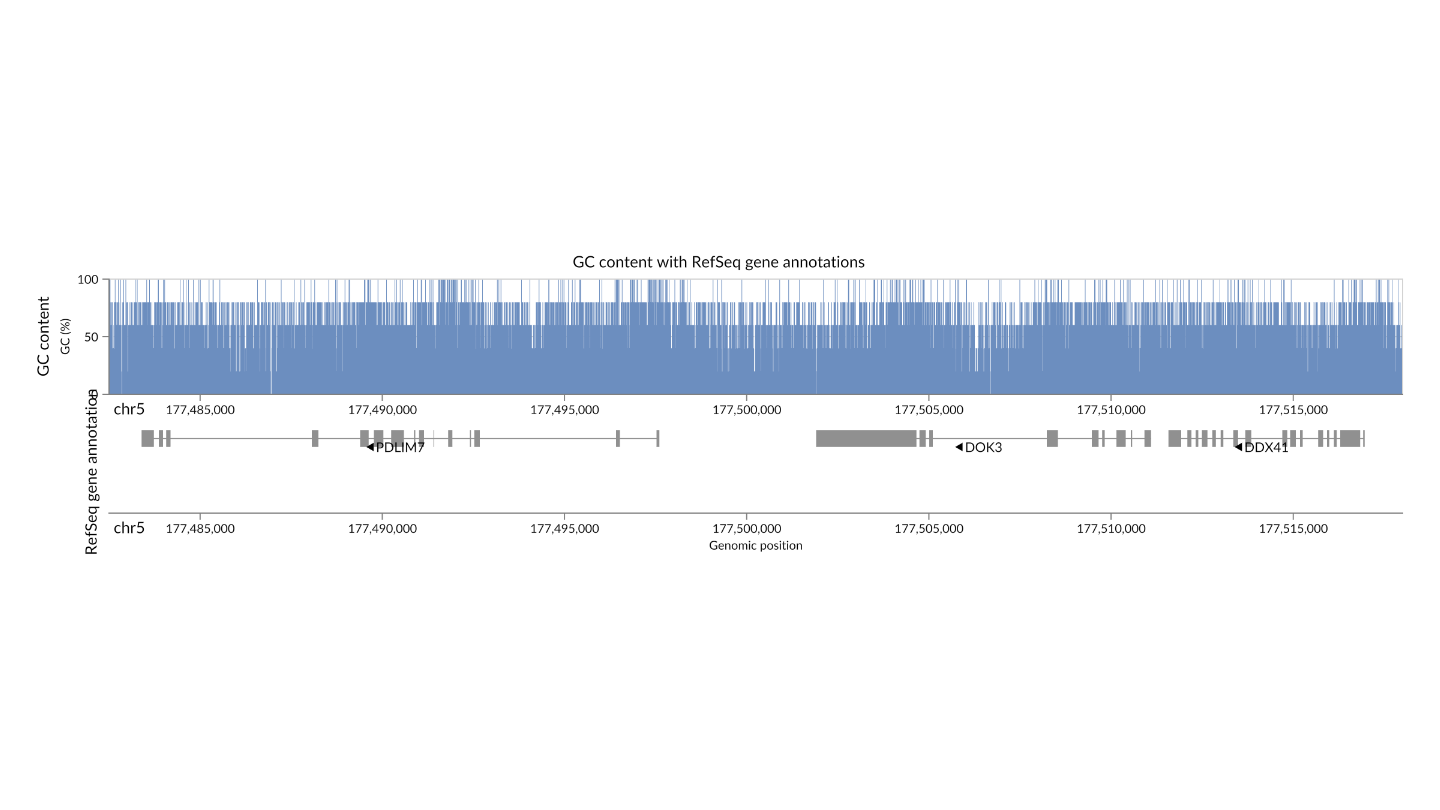
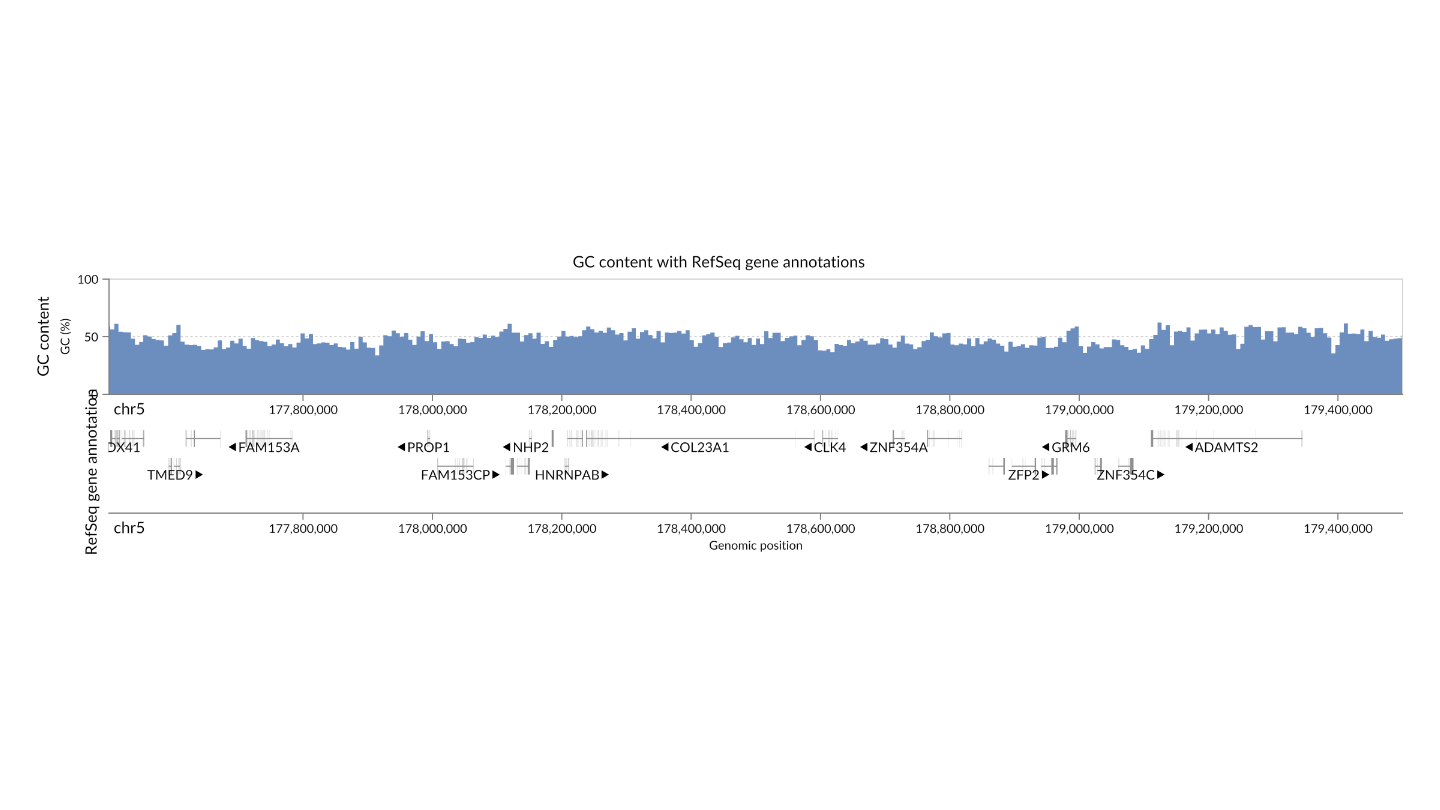
fix(gallery): refine genome track layouts

diff --git a/docs/examples/stacked_genome_browser.py b/docs/examples/stacked_genome_browser.py
@@ -81,7 +81,7 @@ ccre_track = (
             range=["#e45756", "#f2a541", "#f6cf65", "#d99ac5", "#4f9fc4"],
         ),
     )
-    .properties(name="ccre", title=gs.title("cCRE", style="track-title"), height=42)
+    .properties(name="ccre", title=gs.title("cCRE", style="track-title"), height=32)
 )
 
 
@@ -107,7 +107,7 @@ sequence_track = (
     .properties(
         name="sequence",
         title=gs.title("Sequence", style="track-title"),
-        height=52,
+        height=32,
         data=gs.lazy.indexed_fasta(
             "https://data.genomespy.app/genomes/hg38/hg38.fa", windowSize=30_000
         ),

diff --git a/docs/examples/genome_tracks.py b/docs/examples/genome_tracks.py
@@ -17,8 +17,8 @@ META = {
 }
 
 DOMAIN = [
-    {"chrom": "chr5", "pos": 177482500},
-    {"chrom": "chr5", "pos": 177518000},
+    {"chrom": "chr5", "pos": 177500000},
+    {"chrom": "chr5", "pos": 179500000},
 ]
 
 # Show GC content, loading just the region being viewed.

diff --git a/docs/examples/brush_linked_genome_tracks.py b/docs/examples/brush_linked_genome_tracks.py
@@ -14,7 +14,7 @@ from genome_spy.schema import BrushConfig, SelectionDomainRef
 META = {
     "category": "Association plots",
     "order": 12,
-    "height": 500,
+    "height": 530,
     "max_width": 980,
 }
 
